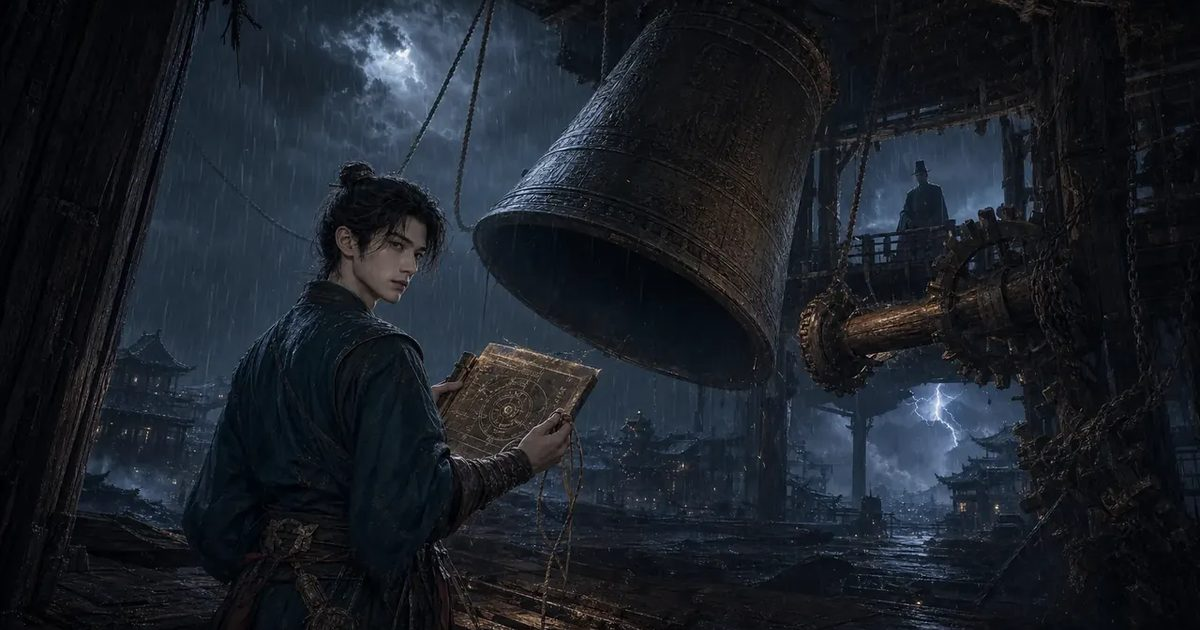
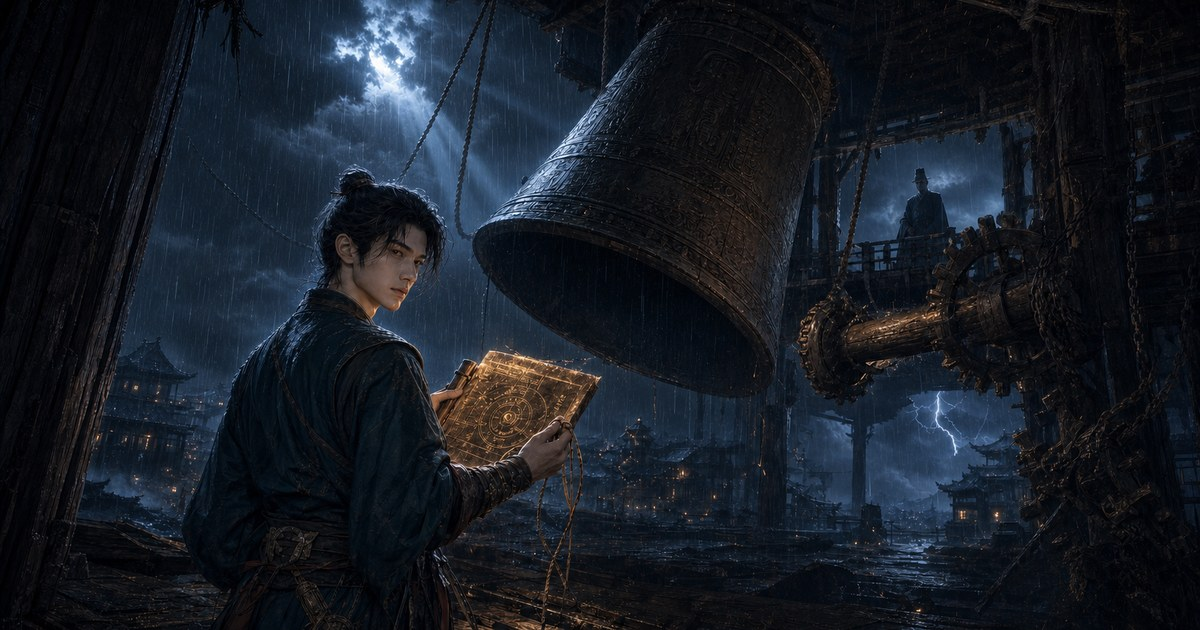
fix(look): 調色套到全部畫面 + OG 換新圖並修掉拉扁
上一版的調色只有題名頁生效——其他 11 個畫面的 .bg 都各自帶行內
filter:brightness(...),而行內 filter 會整個取代類別的 filter,無法疊加,
所以序引四幕、序章、章節、破局、結局全都還是原本的灰霧狀態。

- .bg 改成 filter:brightness(var(--bgb,.86)) contrast(1.1) saturate(var(--bgs,1.08))
  亮度各畫面用 --bgb 自己指定(壓字需求不同,.3~.62),對比與彩度統一在類別管
- 11 處行內 filter 改成變數;失敗畫面的 grayscale(.5) 等效改成 --bgs:.5
- 序引第 4 幕本來就吃 title_keyart(game.json 裡 v14→v15 換的 2 處之一),
  現在連調色也一起吃到了

OG 圖:assets/og.jpg 是獨立檔案,不會跟著 keyart 換,而且原本是把
1672x941(1.78:1)硬壓成 1200x630(1.90:1)——橫向被拉扁。
改成由 v15 依比例裁切(偏上裁,保住人物臉與鐘體,多切下緣暗地板)再縮,
不再變形。index.html 與 design.html 共用同一張,兩邊一起更新。
ledger 補登 og.jpg(先前沒有記錄)。

diff --git a/engine.js b/engine.js
@@ -723,7 +723,7 @@ function sIntro() {
     const p = pages[i];
     // 每幕:Ken Burns 背景 + 字幕分層進場;交叉溶接(不 clear,舊幕淡出移除)
     const lay = el(`<div class="cine-scene">
-      <div class="bg ${KB[i % 4]}" style="background-image:url('${p.image}');filter:brightness(.62)"></div>
+      <div class="bg ${KB[i % 4]}" style="background-image:url('${p.image}');--bgb:.62"></div>
       <div class="scrim"></div>
       <div class="cine-txt">
         <div class="intro-eyebrow ci-a">${esc(p.eyebrow)}</div>
@@ -818,7 +818,7 @@ function prologueBattle() {
     if (phase >= total) return prologueFinalChoice();
     clear();
     const lay = el(`<div class="layer fade"></div>`);
-    lay.append(el(`<div class="bg" style="background-image:url('${p.background}');filter:brightness(.45)"></div>`), el(`<div class="scrim"></div>`));
+    lay.append(el(`<div class="bg" style="background-image:url('${p.background}');--bgb:.45"></div>`), el(`<div class="scrim"></div>`));
     const q = el(`<div class="qishi"></div>`);
     const renderQishi = () => { q.innerHTML = ''; for (let k = 0; k < S.qishi_max; k++) q.appendChild(el(`<div class="pip ${k < S.qishi ? 'on' : ''}"></div>`)); };
     renderQishi();
@@ -883,7 +883,7 @@ function prologueFinalChoice() {
   const fc = G.prologue.final_choice;
   clear(); playMusic(MUSIC.prologue);
   const lay = el(`<div class="layer fade"></div>`);
-  lay.append(el(`<div class="bg" style="background-image:url('${G.prologue.background}');filter:brightness(.5)"></div>`), el(`<div class="scrim"></div>`));
+  lay.append(el(`<div class="bg" style="background-image:url('${G.prologue.background}');--bgb:.5"></div>`), el(`<div class="scrim"></div>`));
   const box = el(`<div class="choicebox">
     <div style="color:var(--br);letter-spacing:.2em;font-size:1.3rem">${esc(fc.banner[0])}</div>
     <div style="color:var(--pa2);margin:.3rem 0 1rem">${esc(fc.banner[1])}</div>
@@ -915,7 +915,7 @@ function prologueEnding(ending, lizheng, insight) {
   const e = G.prologue.endings[ending];
   clear(); playMusic(MUSIC.ambient);
   const lay = el(`<div class="layer fade"></div>`);
-  lay.append(el(`<div class="bg" style="background-image:url('${G.prologue.background}');filter:brightness(.5)"></div>`), el(`<div class="scrim"></div>`));
+  lay.append(el(`<div class="bg" style="background-image:url('${G.prologue.background}');--bgb:.5"></div>`), el(`<div class="scrim"></div>`));
   lay.appendChild(el(`<div style="position:absolute;left:80px;right:80px;top:56px">
     <div class="intro-eyebrow">序章結局</div>
     <div class="intro-title" style="max-width:92%">${esc(e.title)}</div>
@@ -941,7 +941,7 @@ function sChapter() {
     clear();
     // 章名卡
     const card = el(`<div class="layer fade" style="display:flex;flex-direction:column;align-items:center;justify-content:center">
-      <div class="bg" style="background-image:url('${c.background}');filter:brightness(.4)"></div>
+      <div class="bg" style="background-image:url('${c.background}');--bgb:.4"></div>
       <div class="scrim"></div>
       <div style="position:relative;text-align:center">
         <div style="color:var(--br);letter-spacing:.3em;margin-bottom:1rem">${esc(c.location)}</div>
@@ -1502,7 +1502,7 @@ function battle(c) {
     clear();
     const b = c.battles[bi];
     const lay = el(`<div class="layer fade"></div>`);
-    lay.appendChild(el(`<div class="bg" style="background-image:url('${c.background}');filter:brightness(.45)"></div>`));
+    lay.appendChild(el(`<div class="bg" style="background-image:url('${c.background}');--bgb:.45"></div>`));
     lay.appendChild(el(`<div class="scrim"></div>`));
     const bar = el(`<div class="topbar"></div>`);
     bar.appendChild(el(`<div class="chip">破局戰 ${bi + 1}/${c.battles.length}</div>`));
@@ -1575,7 +1575,7 @@ function battleCleared(c) {
 function failScreen(background, title, reason, retry, retryLabel) {
   clear();
   const lay = el(`<div class="layer fade"></div>`);
-  lay.appendChild(el(`<div class="bg" style="background-image:url('${background}');filter:brightness(.3) grayscale(.5)"></div>`));
+  lay.appendChild(el(`<div class="bg" style="background-image:url('${background}');--bgb:.3;--bgs:.5"></div>`));
   lay.appendChild(el(`<div class="scrim"></div>`));
   const box = el(`<div class="choicebox" style="text-align:center">
     <div class="gsub" style="color:var(--danger);font-size:1.3rem;margin-bottom:1rem">${esc(title)}</div>
@@ -1609,7 +1609,7 @@ function finalChoice(c) {
   if (!fc) { advance(c); return; }
   clear();
   const lay = el(`<div class="layer fade"></div>`);
-  lay.appendChild(el(`<div class="bg" style="background-image:url('${c.background}');filter:brightness(.5)"></div>`));
+  lay.appendChild(el(`<div class="bg" style="background-image:url('${c.background}');--bgb:.5"></div>`));
   lay.appendChild(el(`<div class="scrim"></div>`));
   const box = el(`<div class="choicebox"><div class="prompt">${esc(fc.prompt)}</div></div>`);
   const eff = G.logic.final_effects[String(c.id)] || {};
@@ -1654,7 +1654,7 @@ function chapterClearScreen(c) {
   clear();
   sfx('gong', 0.7, 0.65);           // 過關:鑼聲
   const lay = el(`<div class="layer fade" style="display:flex;align-items:center;justify-content:center">
-    <div class="bg" style="background-image:url('${c.background}');filter:brightness(.4)"></div>
+    <div class="bg" style="background-image:url('${c.background}');--bgb:.4"></div>
     <div class="scrim"></div></div>`);
   const box = el(`<div class="choicebox" style="text-align:center">
     <div style="color:var(--jade);letter-spacing:.3em;margin-bottom:.6rem">通　關</div>
@@ -1808,7 +1808,7 @@ function romanceSelect(phase, next) {
   if (!cands.length) { S.romance = phase === 'final' ? S.romance : ''; save(); return next(); }
   clear();
   const lay = el(`<div class="layer fade"></div>`);
-  lay.appendChild(el(`<div class="bg" style="background-image:url('${G.title_keyart}');filter:brightness(.4)"></div>`));
+  lay.appendChild(el(`<div class="bg" style="background-image:url('${G.title_keyart}');--bgb:.4"></div>`));
   lay.appendChild(el(`<div class="scrim"></div>`));
   const box = el(`<div class="choicebox"><div class="prompt">${phase === 'final' ? '第十一章・情緣定局' : '第九章・止機之後，可確認心意'}</div></div>`);
   cands.forEach(n => {
@@ -1886,7 +1886,7 @@ function showEnding(e, next, badge, label) {
   clear();
   preload([e.image]).then(() => {
     const lay = el(`<div class="layer fade"></div>`);
-    lay.appendChild(el(`<div class="bg" style="background-image:url('${e.image}');filter:brightness(.55)"></div>`));
+    lay.appendChild(el(`<div class="bg" style="background-image:url('${e.image}');--bgb:.55"></div>`));
     lay.appendChild(el(`<div class="scrim"></div>`));
     lay.appendChild(el(`<div style="position:absolute;left:80px;right:80px;top:80px">
       <div class="intro-eyebrow">${esc(badge || '結局')}</div>

diff --git a/sw.js b/sw.js
@@ -2,7 +2,7 @@
 //   殼(HTML/JS/data,約 0.4MB)每次部署 bump;資產(assets/,約 33MB)只有同名檔換內容才 bump。
 //   舊做法把 33MB 和殼放同一個 CACHE,每次部署 activate 整包刪掉重抓——不只浪費頻寬,更會反覆
 //   製造「重寫 33MB」的窗口,而寫入失敗(配額/SW 被回收)是靜默的,尾端最大的音檔最容易掉。
-const SHELL_CACHE="gewu-shell-v92";   // ← 每次部署 bump 這行(觸發新 SW + 自動重整)
+const SHELL_CACHE="gewu-shell-v93";   // ← 每次部署 bump 這行(觸發新 SW + 自動重整)
 // ponytail: 新增/改名的資產 URL 變了就自動抓;只有「同名檔換內容」才要手動 bump 這行
 // (本 repo 慣例是檔名帶 _vNN,如 title_keyart_v14.webp,平常不用動)。
 // 上限=靠人記得 bump;要根治就資產改雜湊檔名 + build step,見 NOTES.md。

diff --git a/index.html b/index.html
@@ -56,7 +56,9 @@ html,body{height:100%;background:#000;overflow:hidden;
 @media (orientation:portrait) and (max-width:900px){#rotate{display:flex}}
 
 .layer{position:absolute;inset:0}
-.bg{position:absolute;inset:0;background-size:cover;background-position:center;filter:brightness(.86) contrast(1.1) saturate(1.08);
+.bg{position:absolute;inset:0;background-size:cover;background-position:center;
+  /* 亮度各畫面自己用 --bgb 指定(壓字需求不同),對比與彩度統一在這裡——行內 filter 會整個蓋掉類別,不能疊加 */
+  filter:brightness(var(--bgb,.86)) contrast(1.1) saturate(var(--bgs,1.08));
   transform-origin:center;animation:kenburns 24s ease-in-out infinite}
 @keyframes kenburns{0%,100%{transform:scale(1.02)}50%{transform:scale(1.052)}}
 /* 雨幕(還原原作 rain_overlay)+ 浮塵層 */
